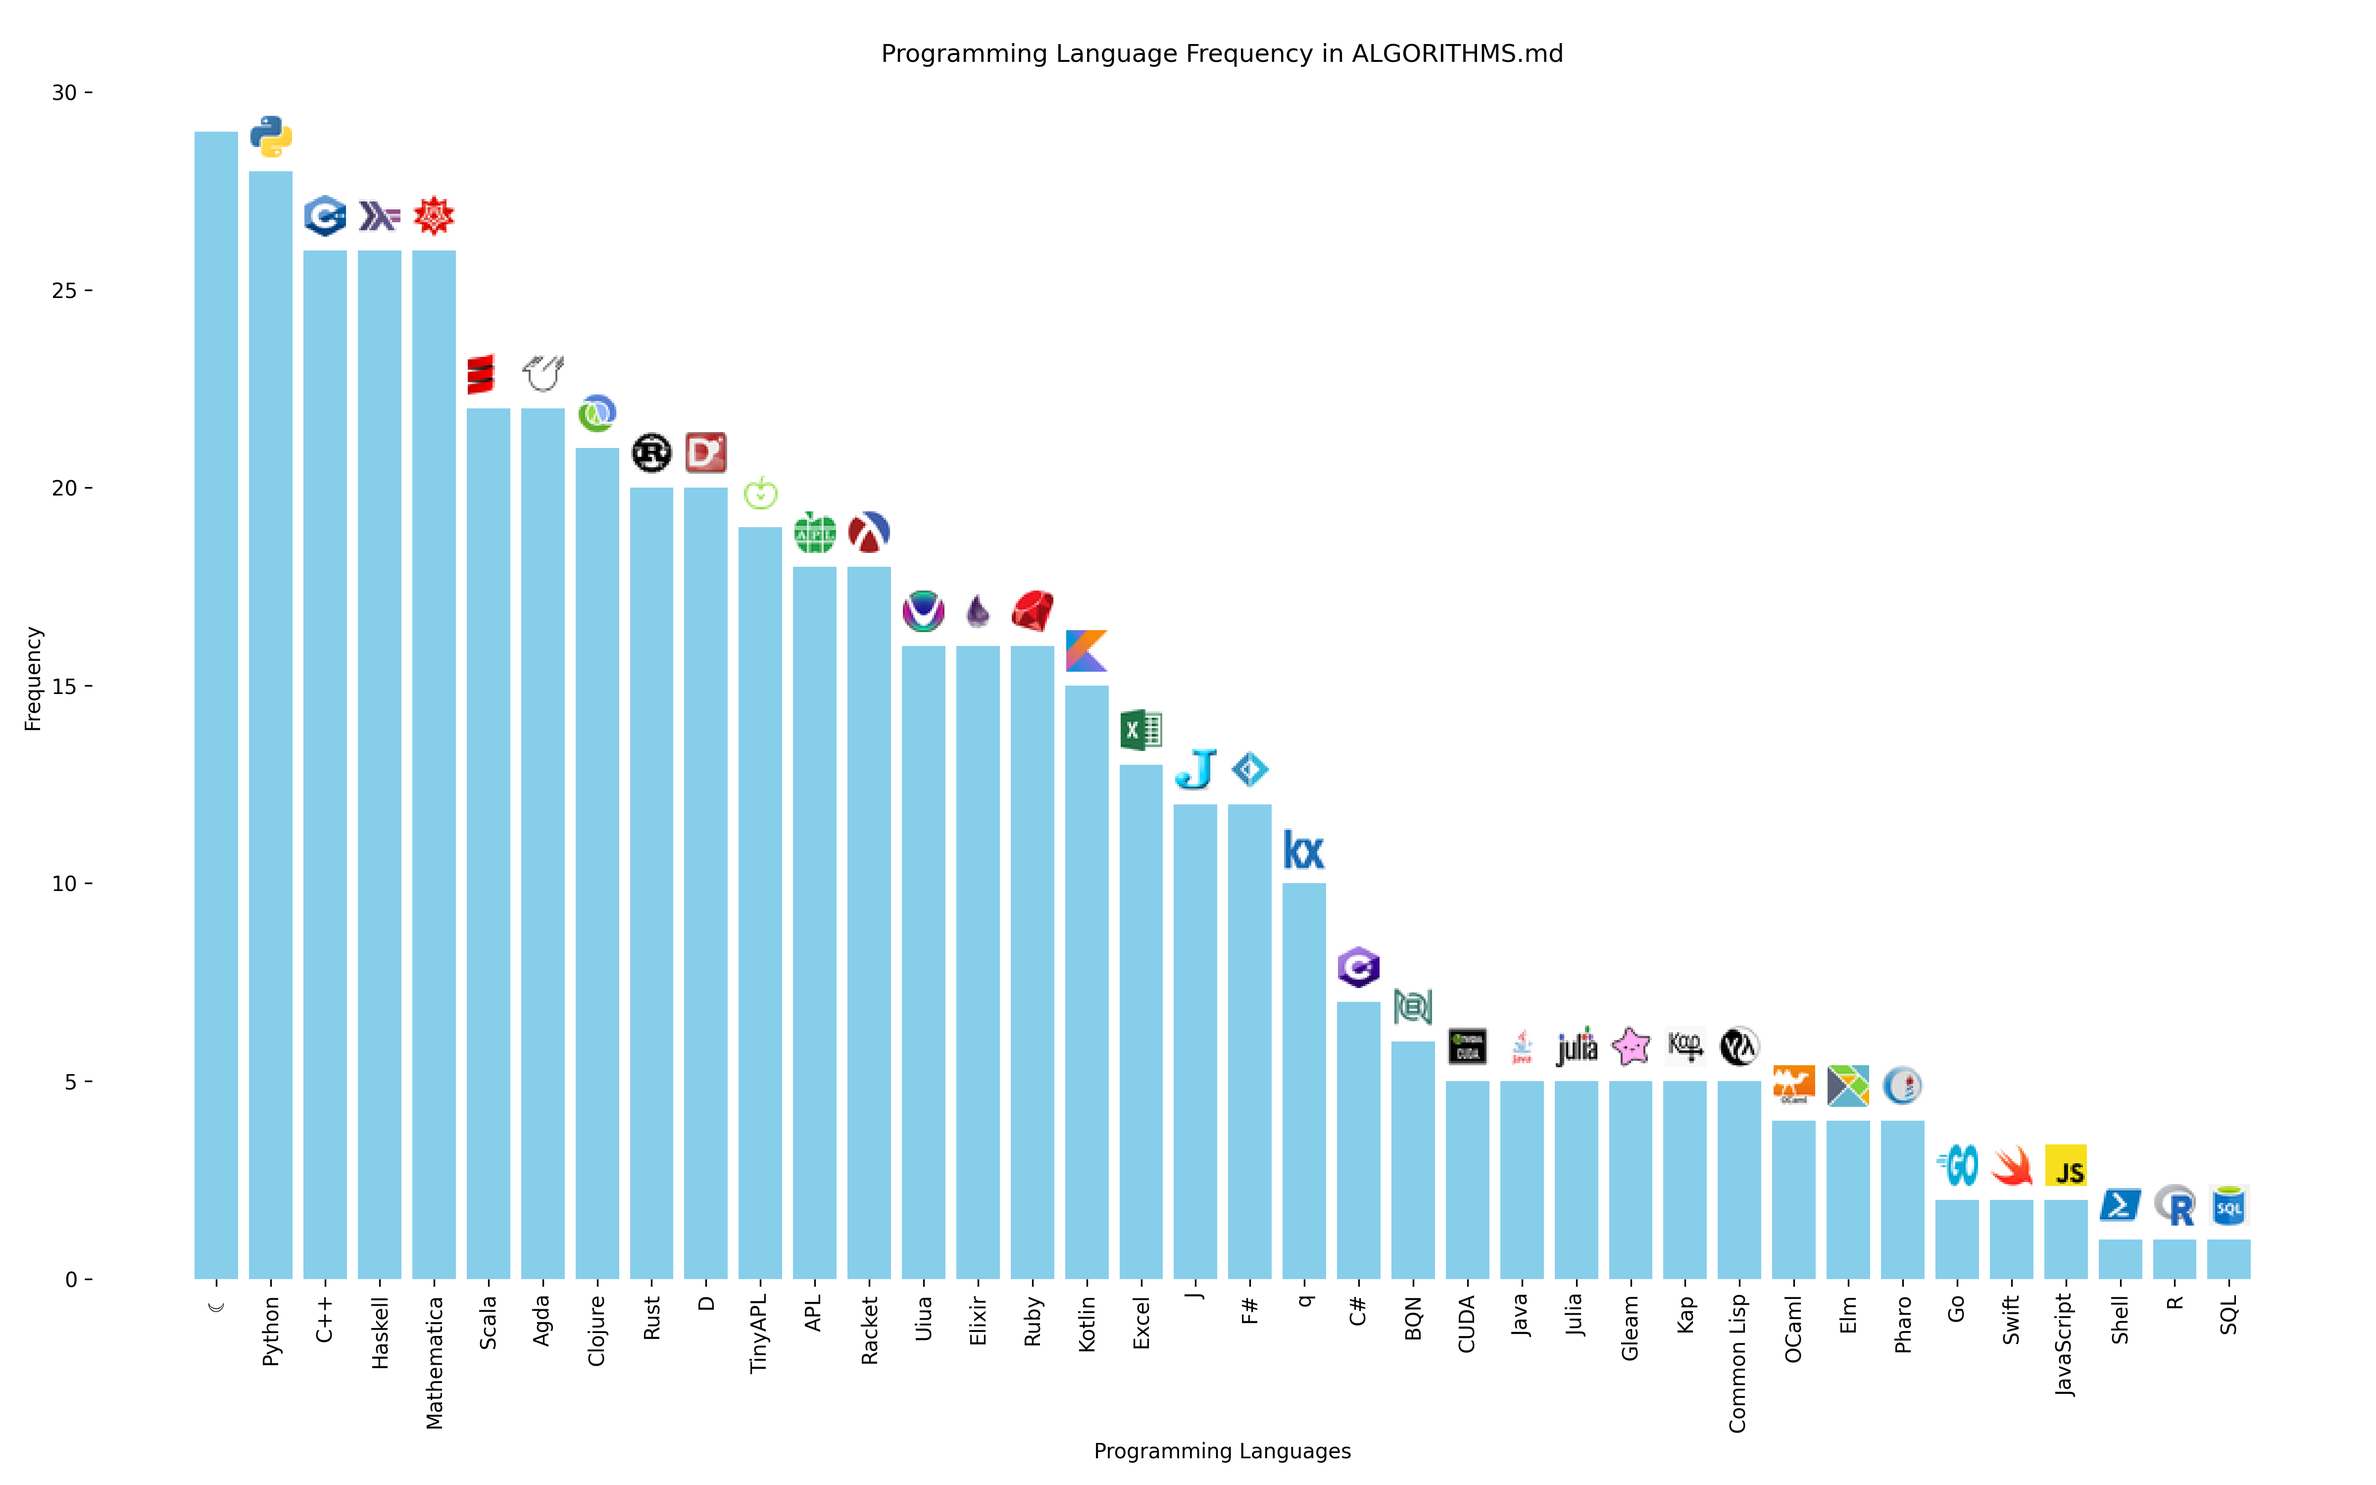
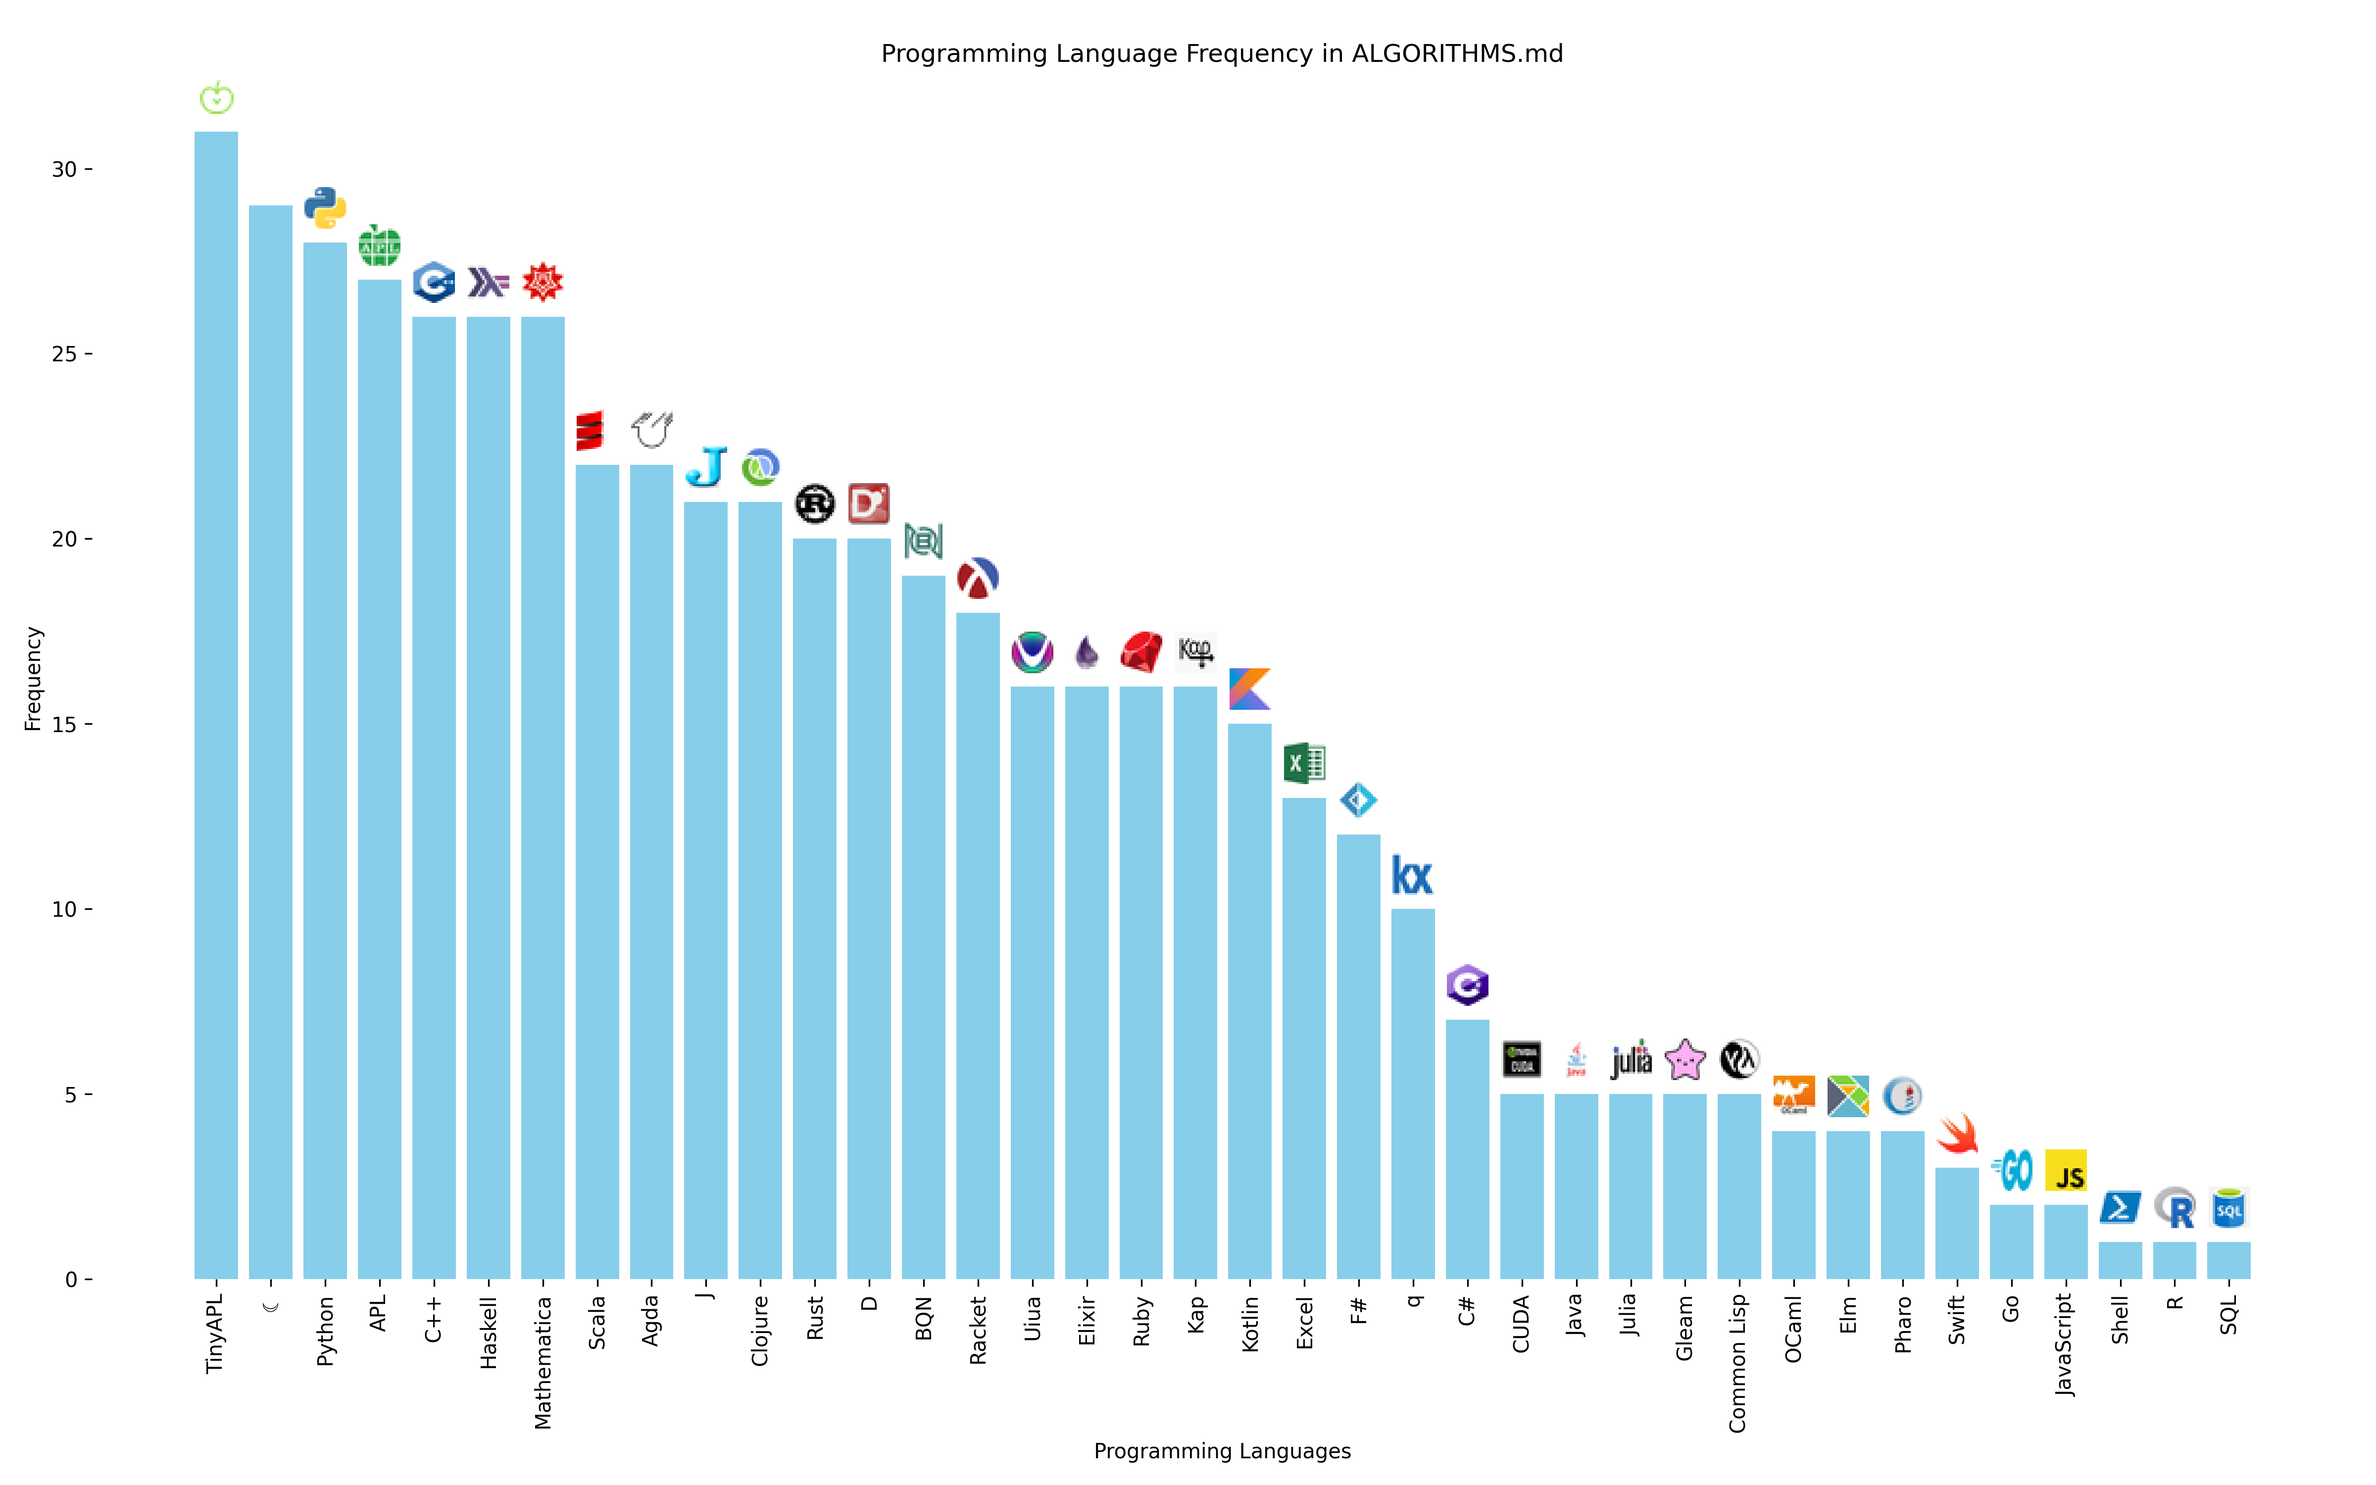
Combinators

diff --git a/ALGORITHMS.md b/ALGORITHMS.md
@@ -471,3 +471,56 @@
 |      J      |          `~. (nub)`          |   15   |           `-`           |       |                                           [doc](https://code.jsoftware.com/wiki/Vocabulary/tildedot)                                           |
 |    Swift    |         `reductions`         |   4    |      `Algorithms`       |       |            [doc](https://swiftpackageindex.com/apple/swift-algorithms/main/documentation/algorithms/swift/sequence/reductions(_:))             |
 |      J      |          `# (copy)`          |   25   |           `-`           |       |                                        [doc](https://code.jsoftware.com/wiki/Vocabulary/number#dyadic)                                         |
+|     APL     |          `⊢ (same)`          |  5090  |           `-`           |       |                                    [doc](https://help.dyalog.com/17.1/Content/Language/Primitive%20Functions/Same.htm)                         |
+|   TinyAPL   |          `⊢ (same)`          |  5090  |           `-`           |       |                                           [doc](https://tinyapl.rubenverg.com/docs/primitive/right)                                            |
+|     Kap     |        `⊢ (identity)`        |  5090  |           `-`           |       |                                   [doc](https://kapdemo.dhsdevelopments.com/reference.html#_identityright)                                     |
+|      J      |          `] (same)`          |  5090  |           `-`           |       |                                           [doc](https://code.jsoftware.com/wiki/Vocabulary/squarert)                                           |
+|     BQN     |         `⊢ (right)`          |  5090  |           `-`           |       |                                            [doc](https://mlochbaum.github.io/BQN/doc/identity.html)                                            |
+|     APL     |         `⊢ (right)`          |  5111  |           `-`           |       |                                    [doc](https://help.dyalog.com/17.1/Content/Language/Primitive%20Functions/Right.htm)                        |
+|   TinyAPL   |         `⊢ (right)`          |  5111  |           `-`           |       |                                           [doc](https://tinyapl.rubenverg.com/docs/primitive/right)                                            |
+|     Kap     |         `⊢ (right)`          |  5111  |           `-`           |       |                                   [doc](https://kapdemo.dhsdevelopments.com/reference.html#_identityright)                                     |
+|      J      |         `] (right)`          |  5111  |           `-`           |       |                                       [doc](https://code.jsoftware.com/wiki/Vocabulary/squarert#dyadic)                                        |
+|     BQN     |         `⊢ (right)`          |  5111  |           `-`           |       |                                            [doc](https://mlochbaum.github.io/BQN/doc/identity.html)                                            |
+|     APL     |          `⊣ (left)`          |  5110  |           `-`           |       |                                    [doc](https://help.dyalog.com/17.1/Content/Language/Primitive%20Functions/Left.htm)                         |
+|   TinyAPL   |          `⊣ (left)`          |  5110  |           `-`           |       |                                           [doc](https://tinyapl.rubenverg.com/docs/primitive/left)                                             |
+|     Kap     |          `⊣ (left)`          |  5110  |           `-`           |       |                                       [doc](https://kapdemo.dhsdevelopments.com/reference.html#_hideleft)                                      |
+|      J      |          `[ (left)`          |  5110  |           `-`           |       |                                           [doc](https://code.jsoftware.com/wiki/Vocabulary/squarelt)                                           |
+|     BQN     |          `⊣ (left)`          |  5110  |           `-`           |       |                                            [doc](https://mlochbaum.github.io/BQN/doc/identity.html)                                            |
+|     APL     |        `⍨ (duplicate)`       |  5230  |           `-`           |       |                                 [doc](https://help.dyalog.com/latest/index.htm#Language/Primitive%20Operators/Commute.htm)                     |
+|   TinyAPL   |        `⍨ (duplicate)`       |  5230  |           `-`           |       |                                         [doc](https://tinyapl.rubenverg.com/docs/primitive/duplicate)                                          |
+|     Kap     |        `⍨ (duplicate)`       |  5230  |           `-`           |       |                                   [doc](https://kapdemo.dhsdevelopments.com/reference.html#_commuteduplicate)                                  |
+|      J      |         `~ (reflex)`         |  5230  |           `-`           |       |                                              [doc](https://code.jsoftware.com/wiki/Vocabulary/tilde)                                           |
+|     BQN     |          `˜ (self)`          |  5230  |           `-`           |       |                                               [doc](https://mlochbaum.github.io/BQN/doc/swap.html)                                             |
+|     APL     |         `⍨ (commute)`        |  5030  |           `-`           |       |                                     [doc](https://help.dyalog.com/latest/#Language/Primitive%20Operators/Commute.htm)                          |
+|   TinyAPL   |         `⍨ (commute)`        |  5030  |           `-`           |       |                                            [doc](https://tinyapl.rubenverg.com/docs/primitive/commute)                                         |
+|     Kap     |         `⍨ (commute)`        |  5030  |           `-`           |       |                                   [doc](https://kapdemo.dhsdevelopments.com/reference.html#_commuteduplicate)                                  |
+|      J      |         `~ (passive)`        |  5030  |           `-`           |       |                                              [doc](https://code.jsoftware.com/wiki/Vocabulary/tilde#dyadic)                                    |
+|     BQN     |          `˜ (swap)`          |  5030  |           `-`           |       |                                               [doc](https://mlochbaum.github.io/BQN/doc/swap.html)                                             |
+|     APL     |        `∘ (compose)`         |  5020  |           `-`           |       |                                     [doc](https://help.dyalog.com/latest/#Language/Primitive%20Operators/Beside.htm)                           |
+|   TinyAPL   |         `∘ (after)`          |  5020  |           `-`           |       |                                            [doc](https://tinyapl.rubenverg.com/docs/primitive/after)                                           |
+|      J      |          `@: (at)`           |  5020  |           `-`           |       |                                              [doc](https://code.jsoftware.com/wiki/Vocabulary/atco)                                            |
+|     BQN     |          `∘ (atop)`          |  5020  |           `-`           |       |                                             [doc](https://mlochbaum.github.io/BQN/doc/compose.html)                                            |
+|     APL     |          `⍤ (atop)`          |  5021  |           `-`           |       |                                      [doc](https://help.dyalog.com/latest/#Language/Primitive%20Operators/Atop.htm)                            |
+|   TinyAPL   |          `⍤ (atop)`          |  5021  |           `-`           |       |                                            [doc](https://tinyapl.rubenverg.com/docs/primitive/atop)                                            |
+|      J      |          `@: (at)`           |  5021  |           `-`           |       |                                              [doc](https://code.jsoftware.com/wiki/Vocabulary/atco)                                            |
+|     BQN     |          `∘ (atop)`          |  5021  |           `-`           |       |                                             [doc](https://mlochbaum.github.io/BQN/doc/compose.html)                                            |
+|     APL     |          `⍥ (over)`          |  5740  |           `-`           |       |                                      [doc](https://help.dyalog.com/latest/#Language/Primitive%20Operators/Over.htm)                            |
+|   TinyAPL   |          `⍥ (over)`          |  5740  |           `-`           |       |                                            [doc](https://tinyapl.rubenverg.com/docs/primitive/over)                                            |
+|     Kap     |          `⍥ (over)`          |  5740  |           `-`           |       |                                       [doc](https://kapdemo.dhsdevelopments.com/reference.html#_over)                                          |
+|      J      |         `&: (appose)`        |  5740  |           `-`           |       |                                              [doc](https://code.jsoftware.com/wiki/Vocabulary/ampco)                                           |
+|     BQN     |          `○ (over)`          |  5740  |           `-`           |       |                                             [doc](https://mlochbaum.github.io/BQN/doc/compose.html)                                            |
+|   TinyAPL   |        `⟜ (right hook)`      |  5190  |           `-`           |       |                                            [doc](https://tinyapl.rubenverg.com/docs/primitive/right_hook)                                      |
+|     Kap     |         `∘ (compose)`        |  5190  |           `-`           |       |                                       [doc](https://kapdemo.dhsdevelopments.com/reference.html#_compose)                                       |
+|     BQN     |          `⟜ (after)`         |  5190  |           `-`           |       |                                               [doc](https://mlochbaum.github.io/BQN/doc/hook.html)                                             |
+|   TinyAPL   |        `⊸ (left hook)`       |  5690  |           `-`           |       |                                            [doc](https://tinyapl.rubenverg.com/docs/primitive/left_hook)                                       |
+|     Kap     |    `⍛ (inverse compose)`     |  5690  |           `-`           |       |                                       [doc](https://kapdemo.dhsdevelopments.com/reference.html#_inverse_compose)                               |
+|     BQN     |          `⊸ (before)`        |  5690  |           `-`           |       |                                               [doc](https://mlochbaum.github.io/BQN/doc/hook.html)                                             |
+|     APL     |          `∘ (beside)`        |  5040  |           `-`           |       |                                     [doc](https://help.dyalog.com/latest/#Language/Primitive%20Operators/Beside.htm)                           |
+|   TinyAPL   |        `⟜ (right hook)`      |  5040  |           `-`           |       |                                            [doc](https://tinyapl.rubenverg.com/docs/primitive/right_hook)                                      |
+|     Kap     |         `∘ (compose)`        |  5040  |           `-`           |       |                                       [doc](https://kapdemo.dhsdevelopments.com/reference.html#_compose)                                       |
+|     BQN     |          `⟜ (after)`         |  5040  |           `-`           |       |                                               [doc](https://mlochbaum.github.io/BQN/doc/hook.html)                                             |
+|   TinyAPL   |        `⊸ (left hook)`       |  5540  |           `-`           |       |                                            [doc](https://tinyapl.rubenverg.com/docs/primitive/left_hook)                                       |
+|     Kap     |    `⍛ (inverse compose)`     |  5540  |           `-`           |       |                                       [doc](https://kapdemo.dhsdevelopments.com/reference.html#_inverse_compose)                               |
+|     BQN     |          `⊸ (before)`        |  5540  |           `-`           |       |                                               [doc](https://mlochbaum.github.io/BQN/doc/hook.html)                                             |
+|   TinyAPL   |           `«» (fork)`        |  5720  |           `-`           |       |                                            [doc](https://tinyapl.rubenverg.com/docs/primitive/fork)                                            |
+|     Kap     |           `«» (fork)`        |  5720  |           `-`           |       |                                     [doc](https://kapdemo.dhsdevelopments.com/reference.html#_and_fork)                                        |
